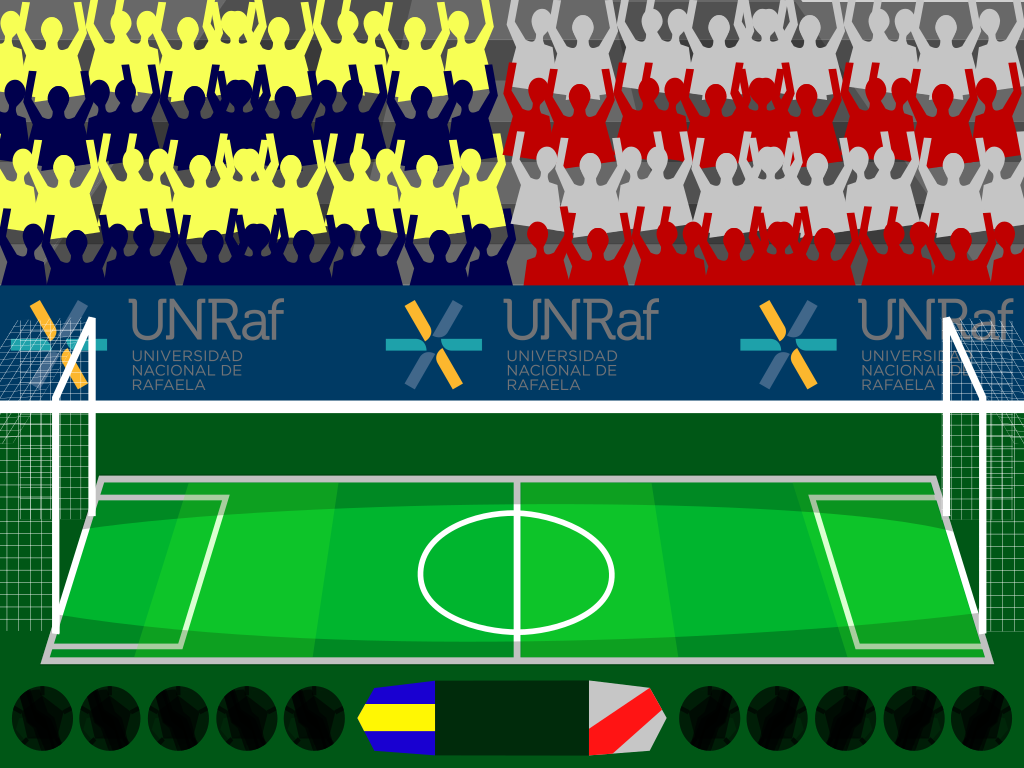
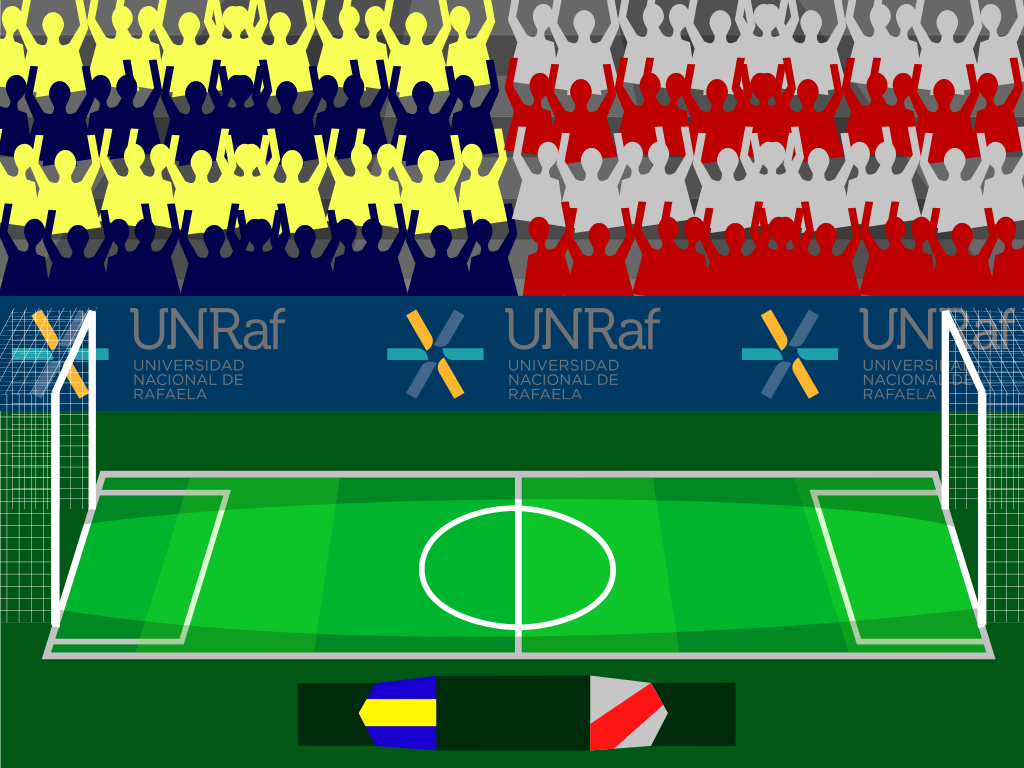
TImers

diff --git a/src/GamePlay.js b/src/GamePlay.js
@@ -25,10 +25,17 @@ GamePlayManager = {
 
         var carlosFondoArco;
         var pityFondoArco;
+        var carlosTechoArco;
+        var pityTechoArco;
 
 
         var golesCarlos = 0;
         var golesPity = 0;
+        var timerPartido;
+        var txtGolesCarlos;
+        var txtGolesPity;
+        var txtTimerPartido;
+
         //game.load.audio('music', ['assets/sonidos/fondoMusica.ogg']);
 
         game.load.audio('music', ['assets/sonidos/fondoMusica.ogg', 'assets/sonidos/fondoMusica.mp3'])
@@ -41,7 +48,7 @@ GamePlayManager = {
         game.load.spritesheet('pity', 'assets/images/pity_movimiento.png', 105, 115, 9);
         game.load.spritesheet('carlos', 'assets/images/carlos_movimiento.png', 105, 114, 9);
         game.load.image("fondoArco", "assets/images/fondo_arco.png");
-
+        game.load.image("techoArco", "assets/images/techo_arco.png");
     },
     //create == start (unity).
     create: function() {
@@ -59,6 +66,10 @@ GamePlayManager = {
 
         //game.physics.p2.setImpactEvents(true);
 
+        //inicializaciones
+        this.golesCarlos = 0;
+        this.golesPity = 0;
+        this.timerPartido = 0;
         game.physics.p2.gravity.y = 500;
 
         var spriteMaterial = game.physics.p2.createMaterial('spriteMaterial');
@@ -79,11 +90,31 @@ GamePlayManager = {
         this.pity.animations.add('izquierda', [8], 12, false);
         this.pity.animations.add('estatico', [0], 12, true);
         this.pity.animations.add('patada', [4], 12, false);
-        this.pelota = game.add.sprite(512, 200, 'pelota');
+        this.pelota = game.add.sprite(76, 200, 'pelota');
         this.paloder = game.add.sprite(1000, 299, 'paloder');
 
         this.carlosFondoArco = game.add.sprite(1,game.world.height - game.cache.getImage('fondoArco').height/2,'fondoArco');
         this.pityFondoArco = game.add.sprite(1000,game.world.height - game.cache.getImage('fondoArco').height/2,'fondoArco');
+
+        this.carlosTechoArco = game.add.sprite(1,game.world.height - game.cache.getImage('fondoArco').height-20,'techoArco');
+        this.pityTechoArco = game.add.sprite(1000,game.world.height - game.cache.getImage('fondoArco').height-20,'techoArco');
+
+
+        this.txtGolesCarlos = game.add.text(320, 690, this.golesCarlos, {
+            font: "45px Arial",
+            fill : '#ffffff',
+            align: "center"
+        });
+        this.txtGolesPity = game.add.text(680, 690, this.golesPity, {
+            font: "45px Arial",
+            fill : '#ffffff',
+            align: "center"
+        });
+        this.txtTimerPartido = game.add.text(460, 690, "00:00", {
+            font: "45px Arial",
+            fill : '#ffffff',
+            align: "center"
+        });
 
         //  Enable for physics. This creates a default rectangular body.
         game.physics.p2.enable([ this.pelota ]);
@@ -92,6 +123,9 @@ GamePlayManager = {
         //game.physics.p2.enable([ this.paloder ]);
         game.physics.p2.enable([ this.pityFondoArco ]);
         game.physics.p2.enable([ this.carlosFondoArco ]);
+        
+        game.physics.p2.enable([ this.pityTechoArco ]);
+        game.physics.p2.enable([ this.carlosTechoArco ]);
 
         // Forma de pelota
         this.pelota.body.setCircle (24,0,0,1);
@@ -100,6 +134,9 @@ GamePlayManager = {
         // Forma de los jugadores
         this.carlos.body.setCircle (38,0,0,0);
         this.pity.body.setCircle (38,0,0,0);
+        this.carlosTechoArco.body.setCircle (58,0,0,0);
+        this.pityTechoArco.body.setCircle (58,0,0,0);
+
 
         // Rotacion de jugadores
         this.carlos.body.fixedRotation = true;
@@ -109,6 +146,8 @@ GamePlayManager = {
 
         this.pityFondoArco.body.static = true;
         this.carlosFondoArco.body.static = true;
+        this.pityTechoArco.body.static = true;
+        this.carlosTechoArco.body.static = true;
 
         // Seteo de materiales para jugadores y pelota
         this.pelota.body.setMaterial(spriteMaterial);
@@ -117,6 +156,8 @@ GamePlayManager = {
         //this.paloder.body.setMaterial(playerMaterial);
         this.pityFondoArco.body.setMaterial(playerMaterial);
         this.carlosFondoArco.body.setMaterial(playerMaterial);
+        this.pityTechoArco.body.setMaterial(playerMaterial);
+        this.carlosTechoArco.body.setMaterial(playerMaterial);
 
         //  Escala de gravedad
         this.pelota.body.data.gravityScale = 3;
@@ -152,34 +193,36 @@ GamePlayManager = {
         //  And before this will happen, we need to turn on impact events for the world
         game.physics.p2.setImpactEvents(true);
 
-        // Musica
-        this.music = game.add.audio('music');
-        this.music.loop = true;
-        this.music.play();
-        this.audioSalto.loop = false;
-        this.audioSalto = game.add.audio('audioSalto');
+        //  Create our Timer
+        this.timerPartido = game.time.create(false);
+        //  Set a TimerEvent to occur after 2 seconds
+        this.timerPartido.loop(1000, this.updateTimer, this);
+        //  Start the timer running - this is important!
+        //  It won't start automatically, allowing you to hook it to button events and the like.
+        this.timerPartido.start();
+
+
+        // // Musica
+        // this.music = game.add.audio('music');
+        // this.music.loop = true;
+        // this.music.play();
+        // this.audioSalto.loop = false;
+        // this.audioSalto = game.add.audio('audioSalto');
+
+
 
     },
 
     goalFun: function(body1, body2) {
-
-        //  body1 is the space ship (as it's the body that owns the callback)
-        //  body2 is the body it impacted with, in this case our panda
-        //  As body2 is a Phaser.Physics.P2.Body object, you access its owner (the sprite) via the sprite property:
-        console.log(body1.id);
-        console.log(body2.id);
-        console.log(this.carlosFondoArco.body.id);
-        console.log(this.pityFondoArco.body.id);
-        console.log(this.pelota.body.id);
-
-
         if (body1.id == this.carlosFondoArco.body.id){
             console.log("Gol pity");
             this.golesPity += 1;
+            this.txtGolesPity.setText(this.golesPity);
         }
         else {
             console.log("Gol carlos");
             this.golesCarlos += 1;
+            this.txtGolesCarlos.setText(this.golesCarlos);
         }
         this.reinicioGol();
     },
@@ -188,6 +231,22 @@ GamePlayManager = {
         this.carlos.reset(150, 100);
         this.pity.reset(874, 100);
         this.pelota.reset(512,200);
+    },
+
+    updateTimer : function() {
+        //console.log(this.timerPartido.ms);
+        var minute = Math.floor(this.timerPartido.ms / 1000 / 60);
+        var second = Math.round((this.timerPartido.ms / 1000) % 60);
+        if (minute < 10){
+            minute = "0" + minute;
+        }
+        if (second < 10){
+            second = "0" + second;
+        }
+        //console.log();
+        //console.log(Math.round((this.timerPartido.ms / 1000) % 60));
+        
+        this.txtTimerPartido.setText(minute + ":" + second);
     },
 
     //Frame a Frame.
@@ -229,7 +288,7 @@ GamePlayManager = {
         {
                 this.carlos.animations.play('static'); 
             }        
-        if (pad1.justPressed(Phaser.Gamepad.XBOX360_STICK_LEFT_Y) && game.time.now > this.carlosJumpTimer)//|| game.input.keyboard.isDown(Phaser.Keyboard.SPACEBAR)
+        if ((pad1.justPressed(Phaser.Gamepad.XBOX360_STICK_LEFT_Y) || game.input.keyboard.isDown(Phaser.Keyboard.SPACEBAR)) && game.time.now > this.carlosJumpTimer)
         {
             console.log("salto carlos");
             this.carlos.body.moveUp(PLAYER_JUMP_SPEED);
